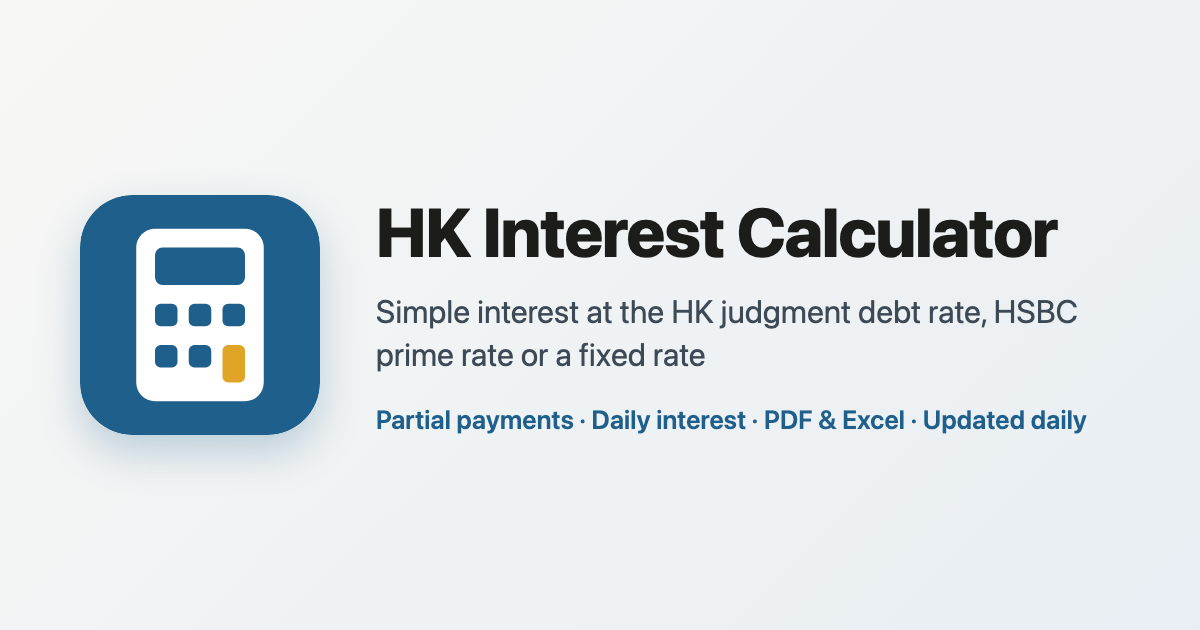
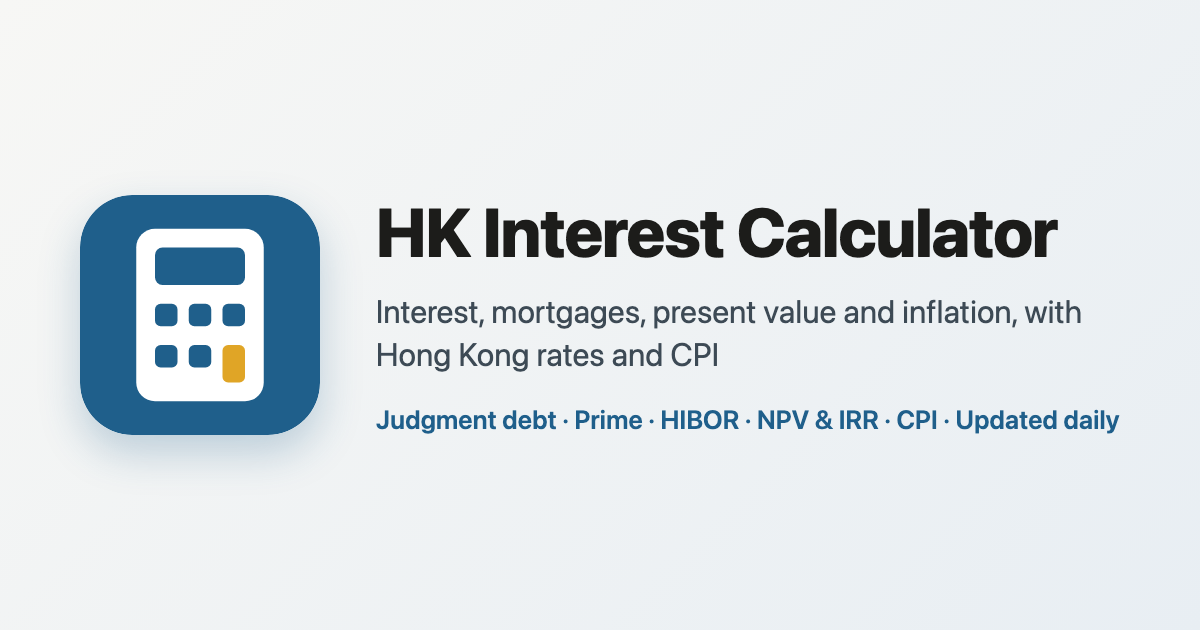
Site describes all four calculators; header shows only the open tab's rates
Page description, link preview text and image, footer (a paragraph per tab), on-page and download
disclaimers (rates and price index figures; PV, TVM and inflation results are estimates; not affiliated
with C&SD either), Terms of Use (all calculators, CSV, investment advice, C&SD data), package.json and
README intro now cover interest, mortgage, PV and inflation. The header shows only the rates the open
tab uses (none on PV), so phones reach the tabs sooner.

Changed region(s): [[0.3083, 0.6333, 0.9558, 0.6937], [0.3083, 0.4524, 0.925, 0.5127], [0.3083, 0.5429, 0.6167, 0.6032]]

diff --git a/site/index.html b/site/index.html
@@ -4,7 +4,7 @@
   <meta charset="utf-8">
   <meta name="viewport" content="width=device-width, initial-scale=1">
   <title>HK Interest Calculator</title>
-  <meta name="description" content="Simple interest on Hong Kong debts at the HK judgment debt rate, HSBC prime rate or a fixed rate, with partial payments, daily interest, and PDF and Excel export.">
+  <meta name="description" content="Hong Kong finance calculators: interest at the judgment debt rate, HSBC or US prime or a fixed rate; HIBOR and prime mortgages; present value, IRR and time value of money; and inflation by the official CPI. Rates updated daily.">
   <meta name="theme-color" content="#1f5f8b">
   <link rel="icon" href="favicon.svg" type="image/svg+xml">
   <link rel="icon" href="favicon-32.png" type="image/png" sizes="32x32">
@@ -13,12 +13,12 @@
   <meta property="og:type" content="website">
   <meta property="og:site_name" content="HK Interest Calculator">
   <meta property="og:title" content="HK Interest Calculator">
-  <meta property="og:description" content="Simple interest on Hong Kong debts at the HK judgment debt rate, HSBC prime rate or a fixed rate, with partial payments, daily interest, and PDF and Excel export.">
+  <meta property="og:description" content="Hong Kong finance calculators: interest at the judgment debt rate, HSBC or US prime or a fixed rate; HIBOR and prime mortgages; present value, IRR and time value of money; and inflation by the official CPI. Rates updated daily.">
   <meta property="og:url" content="https://app.kevinlhc.com/interestcal/">
   <meta property="og:image" content="https://app.kevinlhc.com/interestcal/og-image.png">
   <meta property="og:image:width" content="1200">
   <meta property="og:image:height" content="630">
-  <meta property="og:image:alt" content="HK Interest Calculator: simple interest at the HK judgment debt rate, HSBC prime rate or a fixed rate">
+  <meta property="og:image:alt" content="HK Interest Calculator: interest, mortgage, present value and inflation calculators for Hong Kong">
   <meta name="twitter:card" content="summary_large_image">
   <link rel="stylesheet" href="style.css?v=__BUILD__">
 </head>
@@ -862,7 +862,7 @@
     </details>
 
     <footer class="about">
-      <p>Simple interest at the judgment debt rate published by the
+      <p><strong>Interest:</strong> simple (or compounded) interest at the judgment debt rate published by the
         <a href="https://www.judiciary.hk/en/court_services_facilities/interest_rate.html" target="_blank" rel="noopener">HK Judiciary</a>,
         the HSBC best lending (prime) rate published by the
         <a href="https://www.hkma.gov.hk/eng/data-publications-and-research/data-and-statistics/monthly-statistical-bulletin/" target="_blank" rel="noopener">HKMA</a>
@@ -872,15 +872,24 @@
         <a href="https://www.federalreserve.gov/releases/h15/" target="_blank" rel="noopener">H.15 release</a>,
         or a fixed rate, with optional principal added later and partial payments.
         The start date earns interest and the end date does not: each day earns interest once. A period counts the days from its start date up to, but not including, its end date (end date minus start date, as in Excel and the original workbook), so 1 to 2 January is 1 day. Where one period ends and the next begins, that shared date is counted once, in the later period, so no day is charged twice. If the end date itself should earn interest, use the next day as the end date.
-        Interest for each period = principal × rate × days ÷ year days, where the year days depend on the day count basis you choose.
-        The Mortgage tab works out equal monthly instalments (interest = balance × rate × days ÷ 365) at a prime-based,
+        Interest for each period = principal × rate × days ÷ year days, where the year days depend on the day count basis you choose.</p>
+      <p><strong>Mortgage:</strong> equal monthly instalments (interest = balance × rate × days ÷ 365) at a prime-based,
         HIBOR-based (1-month or 3-month HIBOR, set by
         <a href="https://www.hkab.org.hk/en/rates/hibor" target="_blank" rel="noopener">HKAB</a>, history from the
         <a href="https://apidocs.hkma.gov.hk/" target="_blank" rel="noopener">HKMA</a>) or fixed rate.</p>
+      <p><strong>PV:</strong> the present value of cash flows by dates or periods (T0, T+1, …), or the rate that makes it
+        zero (IRR), as in Excel’s XNPV, XIRR, NPV and IRR; and a time value of money calculator (N, I/Y, PV, PMT, FV) as
+        on a financial calculator.</p>
+      <p><strong>Inflation:</strong> what an amount at one time is worth at another, by the Composite Consumer Price
+        Index published by the
+        <a href="https://www.censtatd.gov.hk/en/web_table.html?id=510-60001" target="_blank" rel="noopener">Census and Statistics Department</a>,
+        with its history since 1980.</p>
       <p class="disclaimer">
         <strong>Disclaimer:</strong> for general information only, not legal, financial or mortgage advice.
-        Rates are collected automatically and may be delayed or wrong; the official publisher’s figures prevail.
-        Check every result before relying on it. Not affiliated with the HK Judiciary, HKMA, HKAB, HSBC or the Federal Reserve.
+        Rates and price index figures are collected automatically and may be delayed or wrong; the official publisher’s figures prevail.
+        Present value, time value of money and inflation results are estimates from the inputs you choose, not quotes or forecasts.
+        Check every result before relying on it. Not affiliated with the HK Judiciary, HKMA, HKAB, HSBC, the Census and
+        Statistics Department or the Federal Reserve.
       </p>
       <p class="license">
         © 2026 kevincgith · Free to use, copy and modify under the

diff --git a/site/terms.html b/site/terms.html
@@ -4,7 +4,7 @@
   <meta charset="utf-8">
   <meta name="viewport" content="width=device-width, initial-scale=1">
   <title>Terms of Use · HK Interest Calculator</title>
-  <meta name="description" content="Terms of use and disclaimer for the HK Interest Calculator.">
+  <meta name="description" content="Terms of use and disclaimer for the HK Interest Calculator and its mortgage, present value and inflation calculators.">
   <meta name="theme-color" content="#1f5f8b">
   <link rel="icon" href="favicon.svg" type="image/svg+xml">
   <link rel="icon" href="favicon-32.png" type="image/png" sizes="32x32">
@@ -16,12 +16,13 @@
     <h1>Terms of Use and Disclaimer</h1>
     <p class="muted">Last updated 5 October 2026</p>
 
-    <p>By using the HK Interest Calculator (the “Calculator”), including its results and its PDF, Word and Excel exports,
+    <p>By using the HK Interest Calculator (the “Calculator”), including its interest, mortgage, present value (PV) and inflation calculators, their results and their PDF, Word,
+      Excel and CSV exports,
       you agree to these terms. If you do not agree, please do not use it.</p>
 
     <h2>1. Not legal, financial or professional advice</h2>
-    <p>The Calculator is a general arithmetic tool. Nothing it shows or exports is legal, financial, tax, accounting
-      or mortgage advice, or an offer of credit. It does not know the facts of your matter. Whether interest is payable,
+    <p>The Calculator is a general arithmetic tool. Nothing it shows or exports is legal, financial, investment, tax,
+      accounting or mortgage advice, or an offer of credit. It does not know the facts of your matter. Whether interest is payable,
       from and to which dates, at what rate and on what basis depends on your contract, any court order and the
       applicable law. Consult a qualified professional before relying on any figure.</p>
 
@@ -29,13 +30,15 @@
     <p>Results depend entirely on the inputs and settings you choose (dates, amounts, rate source, spread, day count
       basis and other options). You are responsible for checking every result, and every exported document, before
       using it, including in correspondence, court documents, statements of claim, demands or financial decisions.
-      Mortgage figures are estimates; your lender’s figures prevail.</p>
+      Mortgage figures are estimates; your lender’s figures prevail. Present value, internal rate of return, time
+      value of money and inflation figures depend on the rates, compounding, timing and index periods you choose; they
+      are estimates, not quotes, valuations or forecasts.</p>
 
-    <h2>3. Interest rate data</h2>
-    <p>Rates are collected automatically from public sources, including the HK Judiciary, the Hong Kong Monetary
-      Authority (HKMA), The Hong Kong Association of Banks (HKAB), The Hongkong and Shanghai Banking Corporation
-      (HSBC) and the US Federal Reserve. Collection may be delayed, may fail, or may be wrong, and historical rates may
-      be incomplete. The original publisher’s figures always prevail. The Calculator is independent and is not
+    <h2>3. Rate and price data</h2>
+    <p>Interest rates and the Consumer Price Index are collected automatically from public sources, including the HK
+      Judiciary, the Hong Kong Monetary Authority (HKMA), The Hong Kong Association of Banks (HKAB), The Hongkong and
+      Shanghai Banking Corporation (HSBC), the Census and Statistics Department (C&amp;SD) and the US Federal Reserve.
+      Collection may be delayed, may fail, or may be wrong, and historical figures may be incomplete. The original publisher’s figures always prevail. The Calculator is independent and is not
       affiliated with, endorsed by or sponsored by any of these organisations; their names are used only to identify
       the source of the data, and any trade marks belong to their owners.</p>
 

diff --git a/site/app.js b/site/app.js
@@ -113,15 +113,17 @@ async function renderLatestRates() {
     }
   };
   const [h1, h3] = await Promise.all([hibor('hibor.json'), hibor('hibor-3m.json')]);
+  // Each rate shows on the tabs that use it (data-tabs; style.css hides the rest)
   const items = [
-    ['Judgment debt', inForce(rateData.judgment?.rates)],
-    ['HSBC prime', inForce(rateData.prime?.rates)],
-    ['US prime', inForce(rateData.usprime?.rates)],
-    ['1M HIBOR', h1],
-    ['3M HIBOR', h3],
+    ['Judgment debt', inForce(rateData.judgment?.rates), 'interest'],
+    ['HSBC prime', inForce(rateData.prime?.rates), 'interest mortgage'],
+    ['US prime', inForce(rateData.usprime?.rates), 'interest'],
+    ['1M HIBOR', h1, 'mortgage'],
+    ['3M HIBOR', h3, 'mortgage'],
   ].filter(([, r]) => r);
-  $('latestRates').replaceChildren(...items.map(([name, r]) => {
+  $('latestRates').replaceChildren(...items.map(([name, r, tabs]) => {
     const item = Object.assign(document.createElement('span'), { className: 'latest-rate' });
+    item.dataset.tabs = tabs;
     item.append(
       Object.assign(document.createElement('span'), { className: 'latest-name', textContent: name }),
       Object.assign(document.createElement('strong'), { textContent: fmtPct(r.rate) }),

diff --git a/site/style.css b/site/style.css
@@ -44,6 +44,13 @@ h1 { margin: 0 0 8px; font-size: 1.6rem; }
 .latest-rate { display: inline-flex; align-items: baseline; gap: 6px; white-space: nowrap; }
 .latest-rate .latest-name, .latest-rate .latest-date { color: var(--muted); }
 .latest-rate .latest-date { font-size: 0.8rem; }
+/* Only the rates the open tab uses: Interest (judgment, HSBC and US prime), Mortgage (HSBC prime, HIBOR),
+   Inflation (HK inflation); PV uses none, so the rates and their "updated as at" line give way to the tabs */
+body[data-tab="interest"] .latest-rate[data-tabs]:not([data-tabs~="interest"]),
+body[data-tab="mortgage"] .latest-rate[data-tabs]:not([data-tabs~="mortgage"]) { display: none; }
+body[data-tab="pv"] :is(#asAt, #latestRates),
+body[data-tab="inflation"] :is(#asAt, #latestRates),
+body:not([data-tab="inflation"]) #latestCpi { display: none; }
 a { color: var(--accent); }
 .muted { color: var(--muted); font-size: 0.9rem; font-weight: normal; }
 

diff --git a/site/disclaimer.js b/site/disclaimer.js
@@ -1,8 +1,8 @@
 // The disclaimer printed on every download, matching the site footer. The full terms are on terms.html.
 
 export const DISCLAIMER =
-  'Disclaimer: for general information only, not legal, financial or mortgage advice. Rates are collected ' +
-  'automatically and may be delayed or wrong; the official publisher’s figures prevail. Check every figure before ' +
+  'Disclaimer: for general information only, not legal, financial or mortgage advice. Rates and price index ' +
+  'figures are collected automatically and may be delayed or wrong; the official publisher’s figures prevail. Check every figure before ' +
   'relying on it.';
 export const TERMS_URL = 'https://app.kevinlhc.com/interestcal/terms.html';
 // For plain-text downloads (Word, Excel, CSV), which can't hold a named link

diff --git a/site/tabs.js b/site/tabs.js
@@ -15,6 +15,7 @@ export function registerQuery(name, fn) {
 
 function show(name) {
   current = name;
+  document.body.dataset.tab = name; // the header shows only the rates this tab uses (style.css)
   for (const t of TABS) {
     const selected = t === name;
     document.getElementById(`tab-${t}`).setAttribute('aria-selected', String(selected));

diff --git a/README.md b/README.md
@@ -2,7 +2,7 @@
 
 **Live:** https://app.kevinlhc.com/interestcal/
 
-This tool calculates simple interest on Hong Kong debts. It is a web version of the `Interest Calculator.xlsm` workbook.
+Hong Kong finance calculators on one page: interest on debts (a web version of the `Interest Calculator.xlsm` workbook), mortgages, present value / IRR / time value of money, and inflation by the official CPI. Rates and CPI are updated daily.
 
 You can choose one of three rates:
 
@@ -58,7 +58,7 @@ You can choose one of three rates:
   - **Calculator, as a sentence that updates as you type:** "HK$ [100] in [2000] [full year] is worth HK$156.28 [Now (Aug 2026)]", or the other way round with **Now → then**: "HK$ [100] [Now] was worth HK$63.99 in [2000]". Each end is a year list ("Now" = the latest month published) and a month list ("full year" = C&SD's yearly average, or a month); months and years without figures are greyed out, and "from" has to come before "to" (earlier "to" choices are greyed out). Value = amount × CPI(later) ÷ CPI(earlier), or ÷ for now → then, with the change in prices and the average a year, `(CPI ratio)^(1 ÷ years) − 1`, a year counting from its middle.
   - **Price level chart:** the monthly Composite CPI rebased so a start month you pick = 100, up to the latest month.
   - **History, back-filled in full:** monthly from October 1980 (index, year-on-year and month-to-month) and yearly from 1981, as tables and a chart of year-on-year inflation each month (5, 10, 20 years or all). The rates of change are C&SD's published figures; before October 2020 C&SD worked them out on the index base in use at the time, so they can differ slightly from changes in today's rebased index (published to 1 decimal place).
-  - **Header:** the latest year-on-year inflation, e.g. "HK inflation 1.7% Aug 2026".
+  - **Header:** the latest year-on-year inflation, e.g. "HK inflation 1.7% Aug 2026". The header shows only the rates the open tab uses: Interest (judgment debt, HSBC prime, US prime), Mortgage (HSBC prime, 1M and 3M HIBOR), Inflation (HK inflation) and none on PV, so on a phone the tabs aren't pushed down by rates that don't apply.
   - **Daily update:** `scripts/update-cpi.mjs` (run by `npm run fetch-rates`, or on its own) downloads the whole series, checks it (500+ months, no gaps, plausible figures, each full year's average of the months matching C&SD's yearly index, latest month no more than 4 months old) and rewrites `site/cpi.json` when it changes. The page only uses it on this tab, so an outage is a warning and the saved figures stay.
   - **Also:** a shareable link (`?tab=inflation&a=100&f=2000&t=now`; months as `2000-01`; `d=back` for now → then; `t=now` keeps following the latest month), Recent and Saved.
 
